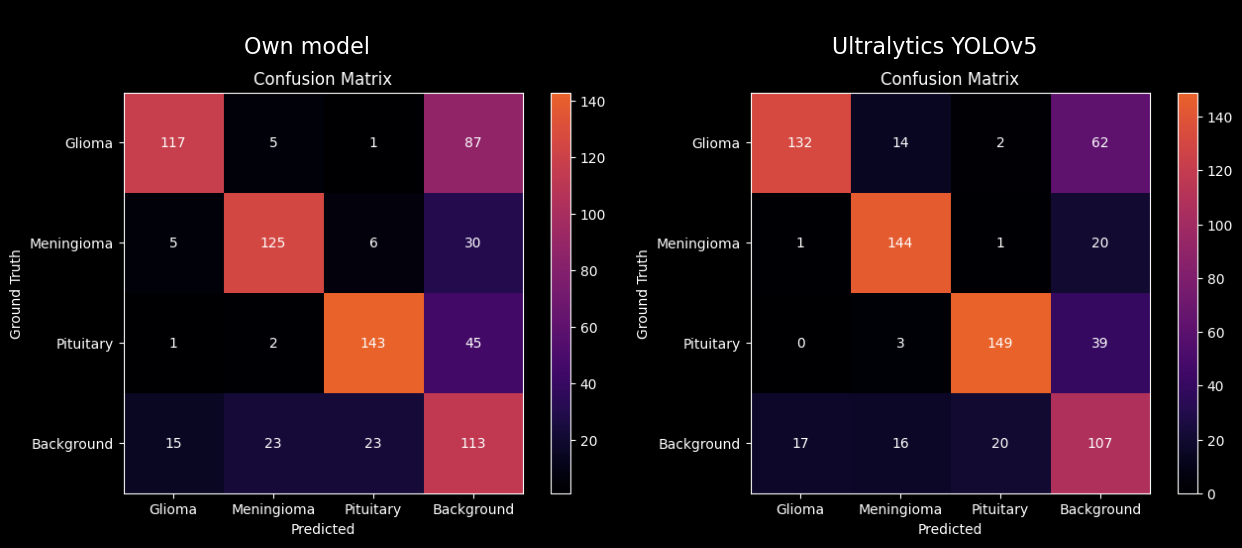
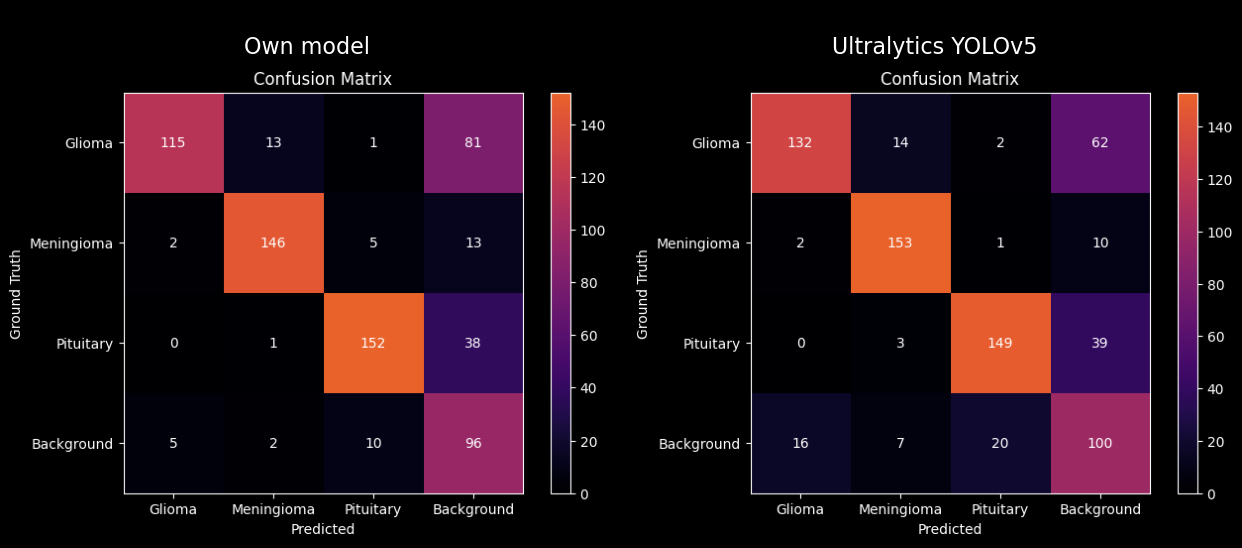
Update MRI summary to the run with box fixes

diff --git a/scripts/plot_mri_f1_history.py b/scripts/plot_mri_f1_history.py
@@ -31,6 +31,7 @@ runs = [
     ("8aaf83f", "loss decoding fixed, peak learning rate 0.03"),
     ("4fcbb95", "validation folder added"),
     ("21b1624", "copies removed, split by patient group"),
+    ("61ef4bd", "box scaling and clipping fixed, evaluation mode"),
 ]
 
 

diff --git a/docs/mri-detection.md b/docs/mri-detection.md
@@ -55,12 +55,12 @@ $TP$ counts tumors found with the right class, $FP$ detections that match no tum
 | Optimizer | SGD, one-cycle schedule | AdamW with a linearly falling learning rate, chosen automatically by Ultralytics for short runs |
 | Augmentation | mosaic, flips, scaling, shifting and color changes | Ultralytics' own: mosaic, flips, scaling, shifting and color changes, no mosaic in the last 10 epochs |
 | Parameters | 15.8 million, of which 36 thousand in the head | 20.0 million, of which 4.2 million in the head |
-| Confidence threshold | 0.45 | 0.45 |
-| Precision | 0.83 | 0.85 |
-| Recall | 0.70 | 0.78 |
-| F1 score | 0.76 | 0.81 |
+| Confidence threshold | 0.50 | 0.45 |
+| Precision | 0.91 | 0.87 |
+| Recall | 0.76 | 0.80 |
+| F1 score | 0.83 | 0.83 |
 
-Both models rarely give a tumor the wrong type. Their errors are mostly missed tumors, most often glioma, as the confusion matrices show.
+Both models reach the same F1 score, our model with higher precision and YOLOv5 with higher recall. Both rarely give a tumor the wrong type. Their errors are mostly missed tumors, most often glioma, as the confusion matrices show.
 
 **F1, precision and recall over the confidence threshold, validation set**
 
@@ -80,7 +80,7 @@ An earlier run scored an F1 score of 0.88 for our model and 0.89 for YOLOv5. The
 
 ![Under the split by image, test images next to their most similar training image: two exact copies and two neighboring slices](mri/leaked_pairs.jpg)
 
-With copies removed and each patient kept in one set (see Data), the scores dropped to 0.76 and 0.81. For YOLOv5 the drop also includes the switch from pretrained to random weights and to a smaller size. The chart shows our model's score over the training runs, and the drop when the leak was closed.
+With copies removed and each patient kept in one set (see Data), the scores dropped to 0.76 and 0.81. For YOLOv5 the drop also includes the switch from pretrained to random weights and to a smaller size. The last run fixed two bugs in how boxes were resized and clipped, which had distorted the boxes of the 13% of images that are not square, and evaluates our model in evaluation mode. That brought both models to the 0.83 above. Evaluation mode alone changed the earlier model's F1 score by less than 0.01 in a local test, so most of our model's gain likely comes from the corrected boxes. For YOLOv5, which trains from the label files, only the scoring changed. The chart shows our model's score over the training runs: the climb, the drop when the leak was closed and the rise after the fixes.
 
 ![F1 score of the own model over the training runs in the commit history, labeled with each run's main change](mri/f1_history.png)
 
@@ -92,7 +92,7 @@ The goal was to learn how a detector works by writing one. These are the lessons
 
 * **Which predictions learn a target is a design choice.** During training, each labeled box has to be handed to some of the predictions, which then learn to output it, while all other predictions learn that nothing is there. Here a target goes to the cell of its center and up to two neighboring cells, for each anchor of similar shape, on every grid. This choice shapes what each part of the head learns, and it is why one target gets several almost identical boxes.
 * **The box encoding must be bounded.** The head predicts positions and sizes through a sigmoid. A box center can lie from half a cell left of or above its grid cell up to the cell's right or lower edge, and a box size stays between 1 and about 4.5 times its anchor. The loss also clamps box sizes as a guard against exploding values. The bounds have to fit the way targets are assigned to grid cells, and here they do not everywhere, see Limits.
-* **Anchors are priors taken from the data.** k-means clustering of the box sizes gives nine anchor shapes, three per scale. A target only trains the anchors whose shape is close to its own, so the anchors decide which targets each scale learns to find. Here the clustering placed five of the nine anchors on the Background boxes around whole brains, which are 14% of the boxes, and only four among the tumor boxes.
+* **Anchors are priors taken from the data.** k-means clustering of the box sizes gives nine anchor shapes, three per scale. A target only trains the anchors whose shape is close to its own, so the anchors decide which targets each scale learns to find. Here the clustering placed four of the nine anchors on the Background boxes around whole brains, which are 14% of the boxes, and five among the tumor boxes.
 
 ![Box sizes in the validation set grouped by k-means, and the nine anchors it converged to, drawn on the image](mri/anchors.png)
 
@@ -106,7 +106,7 @@ The goal was to learn how a detector works by writing one. These are the lessons
 * **One target gives many boxes.** Because one target trains several grid cells, anchors and scales, the model answers it with several boxes that almost overlap. Non-maximum suppression keeps the box with the highest objectness, which is the model's own estimate of the best IoU with the target, and removes the others that overlap it with an IoU of more than 0.4. A duplicate that survives counts as a false positive, since the evaluation matches each true box with one prediction only.
 * **Close targets can be suppressed.** The suppression works across classes, so a second, real target that overlaps the first with an IoU of more than 0.4 is removed as if it were a duplicate. Ultralytics suppresses per class, and only above an IoU of 0.7.
 
-![One test image before and after non-maximum suppression: 9 overlapping boxes for one meningioma become 1](mri/nms_before_after.png)
+![One test image before and after non-maximum suppression: 14 overlapping boxes for one meningioma become 1](mri/nms_before_after.png)
 
 ### Evaluation and data
 
@@ -119,11 +119,8 @@ The goal was to learn how a detector works by writing one. These are the lessons
 * **The grouping is a heuristic.** Without patient ids, groups are found from file numbers and image similarity. Slices of one patient that look less alike can still end up in different sets.
 * **The comparison with YOLOv5 does not isolate a cause.** Detection head, assignment, loss, confidence, non-maximum suppression and training settings all differ at once.
 * **Some assigned cells cannot reach their target.** A target is assigned to the grid cell of its center and to up to two neighboring cells. A target in the left or upper half of its cell is also assigned to the neighbor cell to the left or above. From there its center lies 1 to 1.5 cells away, but the encoding only reaches 1 cell, so that neighbor can never place the box exactly. YOLOv5's range, from -0.5 to 1.5 cells, covers it.
-* **Boxes of non-square images are distorted.** The resize step scales the x coordinates of a box by the height ratio and the y coordinates by the width ratio. For the 13% of images that are not square, every true box is stretched and shifted, both as a training target for our model and as the ground truth both models are scored against. Fixed in the notebook for the next run.
-* **Boxes are not clipped at the right and lower edge.** The clipping writes into a copy of the coordinates, so it has no effect. The distorted boxes therefore stay larger than the image: 23 validation boxes reach past it, which is why the largest anchor is taller than the image. Fixed in the notebook for the next run.
 * **Box sizes cannot shrink below their anchor.** The size encoding allows 1 to about 4.5 times the anchor, while a target down to a quarter of an anchor's size is still assigned to it. Such a target can only be fitted by a larger box.
 * **One run each.** Each model was trained once on one split, so differences of a few hundredths may not repeat with another seed. The earlier runs from the commit history on this page also ran once each, on the old split by image.
-* **Our model is evaluated in training mode.** The notebook never switches our model to evaluation mode, so BatchNorm normalizes each image with the statistics of its batch of 32 validation or test images instead of the statistics learned in training. Its scores and predictions therefore depend on which images share a batch. YOLOv5 is evaluated in evaluation mode. Measured locally with the same weights, evaluation mode changes little: the threshold chosen on the validation set becomes 0.50, and the test F1 score goes from 0.760 to 0.764. Fixed in the notebook for the next run.
 * **Anchors come from the validation set.** The anchor sizes were clustered on the validation boxes, so the validation set, which also picks the threshold, shaped the model a little. The test set was not used for either.
 * **Images without a tumor are not scored.** Precision and recall count tumor boxes only. Whether a model finds the Background box on an image without a tumor does not enter the scores, but a tumor predicted on such an image counts as a false positive.
 

diff --git a/README.md b/README.md
@@ -6,7 +6,7 @@ Two object detection projects, each documented as a Kaggle notebook.
 |---|---|---|
 | Goal | Tell which animal passes a camera on a Raspberry Pi 3 | Understand object detection by building a detector from scratch |
 | Model | YOLO26n, fine-tuned | Own model inspired by and compared with Ultralytics YOLOv5 |
-| Test F1 score | 0.87 | 0.76 (own model), 0.81 (YOLOv5) |
+| Test F1 score | 0.87 | 0.83 (own model), 0.83 (YOLOv5) |
 | Summary | [docs/nordic-animal-detection.md](docs/nordic-animal-detection.md) | [docs/mri-detection.md](docs/mri-detection.md) |
 | Notebook | [nordic-animal-detection.ipynb](nordic-animal-detection.ipynb) | [mri-detection.ipynb](mri-detection.ipynb) |
 | Kaggle | [Open in Kaggle](https://www.kaggle.com/code/johndahlberg/nordic-animal-detection) | [Open in Kaggle](https://www.kaggle.com/code/johndahlberg/mri-brain-detection) |
@@ -35,7 +35,7 @@ Read the full summary in [docs/nordic-animal-detection.md](docs/nordic-animal-de
 
 The goal is to understand how an object detector works by building one from scratch in PyTorch. Brain tumors on MRI images are the toy problem to learn on: find each tumor, draw a box around it and tell glioma, meningioma and pituitary tumors apart. The model, data augmentation and loss are inspired by Ultralytics YOLOv5 and written from scratch from its building blocks. A YOLOv5 model trained from scratch on the same data, at the same depth and width, serves as the comparison. The focus is on explainable code and visualizations more than on matching the original's performance.
 
-The own model reaches a precision of 0.83 and a recall of 0.70 on the test set, YOLOv5 0.85 and 0.78. Both rarely confuse the tumor types. Their errors are mostly missed tumors, and glioma is missed most often. The own model only does well in a narrow band of confidence thresholds. The data set holds copies of images and neighboring slices of one patient, so copies are removed and the split groups similar slices so that a patient stays in one set, as far as similarity can tell. An earlier split by image let them into both training and test and gave much higher scores, an F1 score of 0.88 instead of 0.76.
+The own model reaches a precision of 0.91 and a recall of 0.76 on the test set, YOLOv5 0.87 and 0.80. Both rarely confuse the tumor types. Their errors are mostly missed tumors, and glioma is missed most often. The own model only does well in a narrow band of confidence thresholds. The data set holds copies of images and neighboring slices of one patient, so copies are removed and the split groups similar slices so that a patient stays in one set, as far as similarity can tell. An earlier split by image let them into both training and test and gave an F1 score of 0.88, which fell to 0.76 once the leak was closed. Fixing how boxes were resized and clipped then raised it to 0.83, the same as YOLOv5.
 
 ![Predictions of the own model on test samples](docs/mri/test_predictions.jpg)
 
